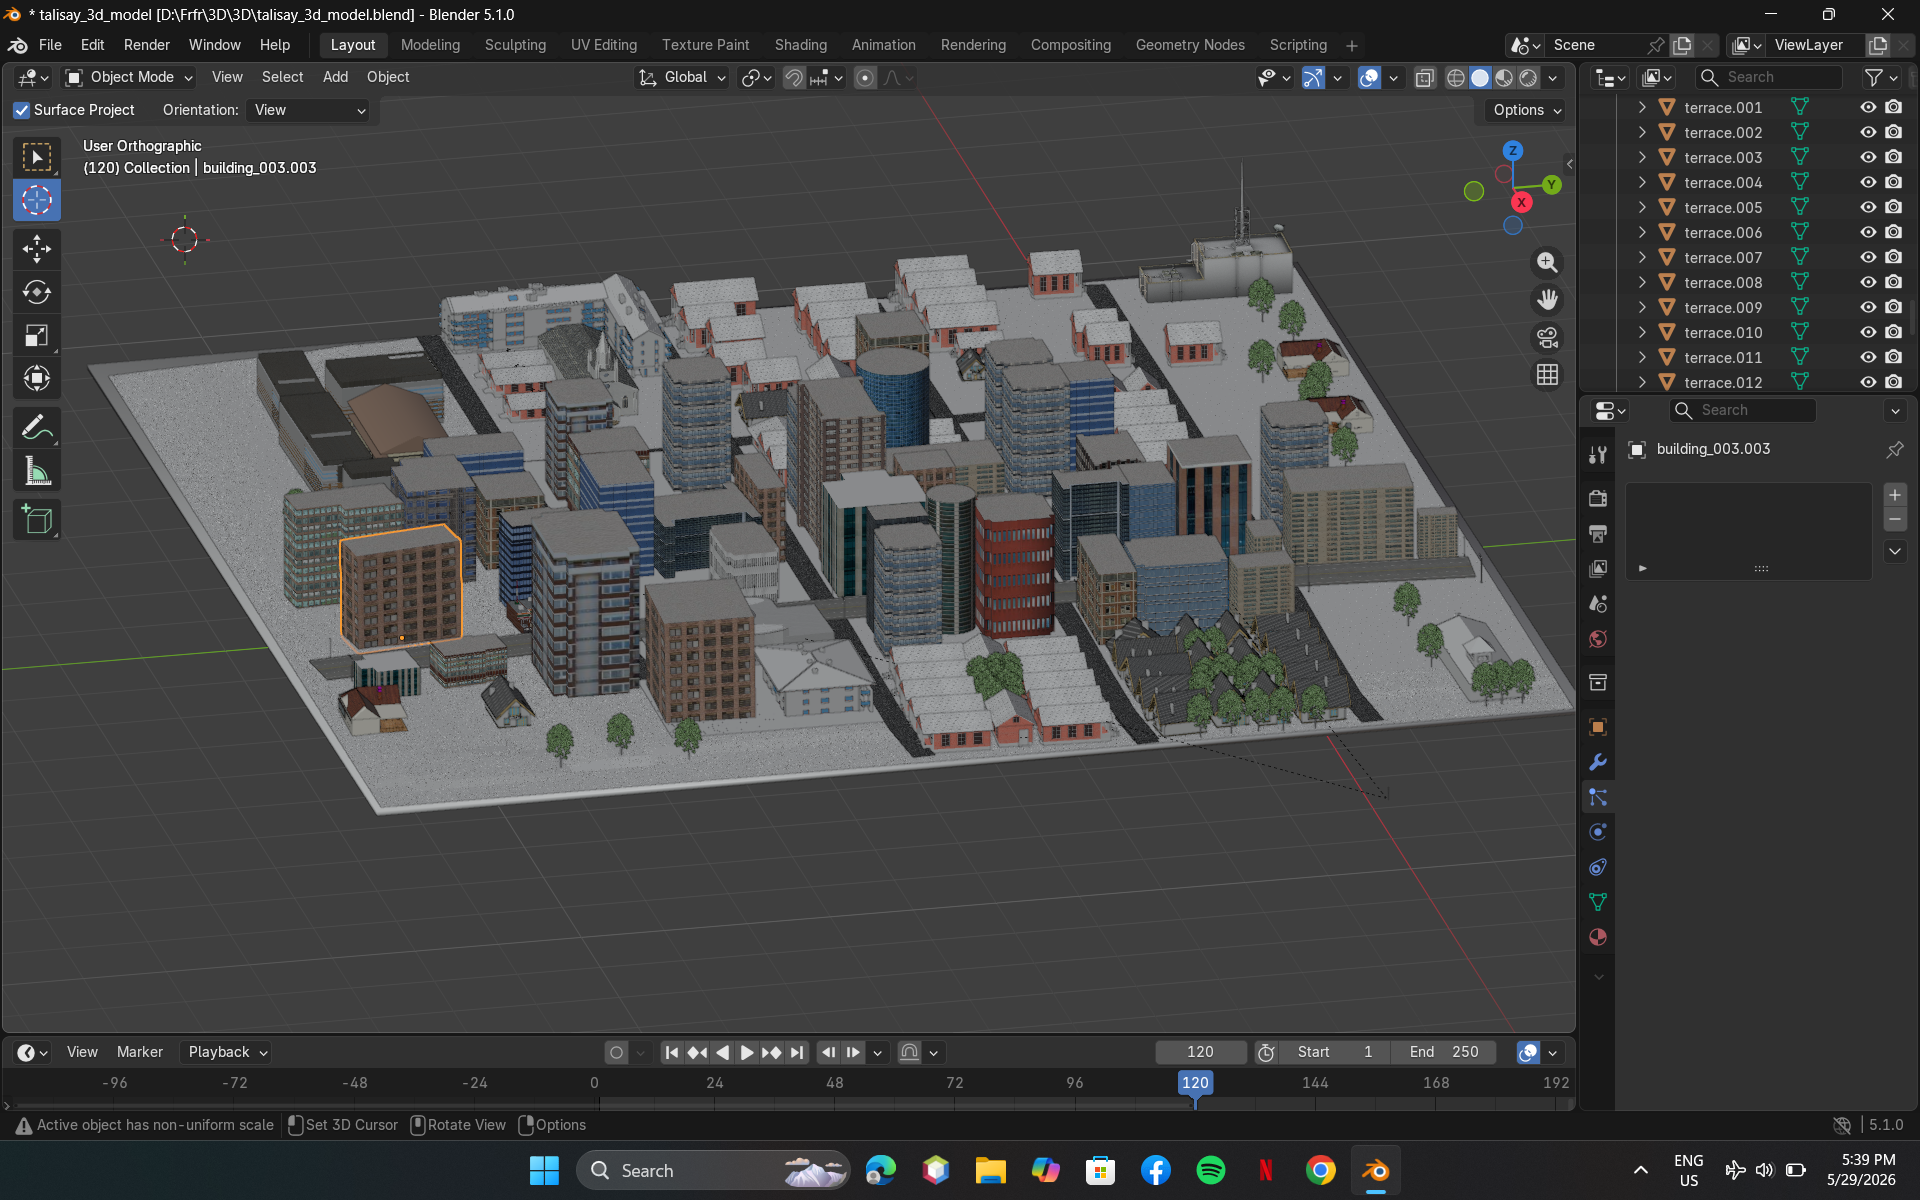
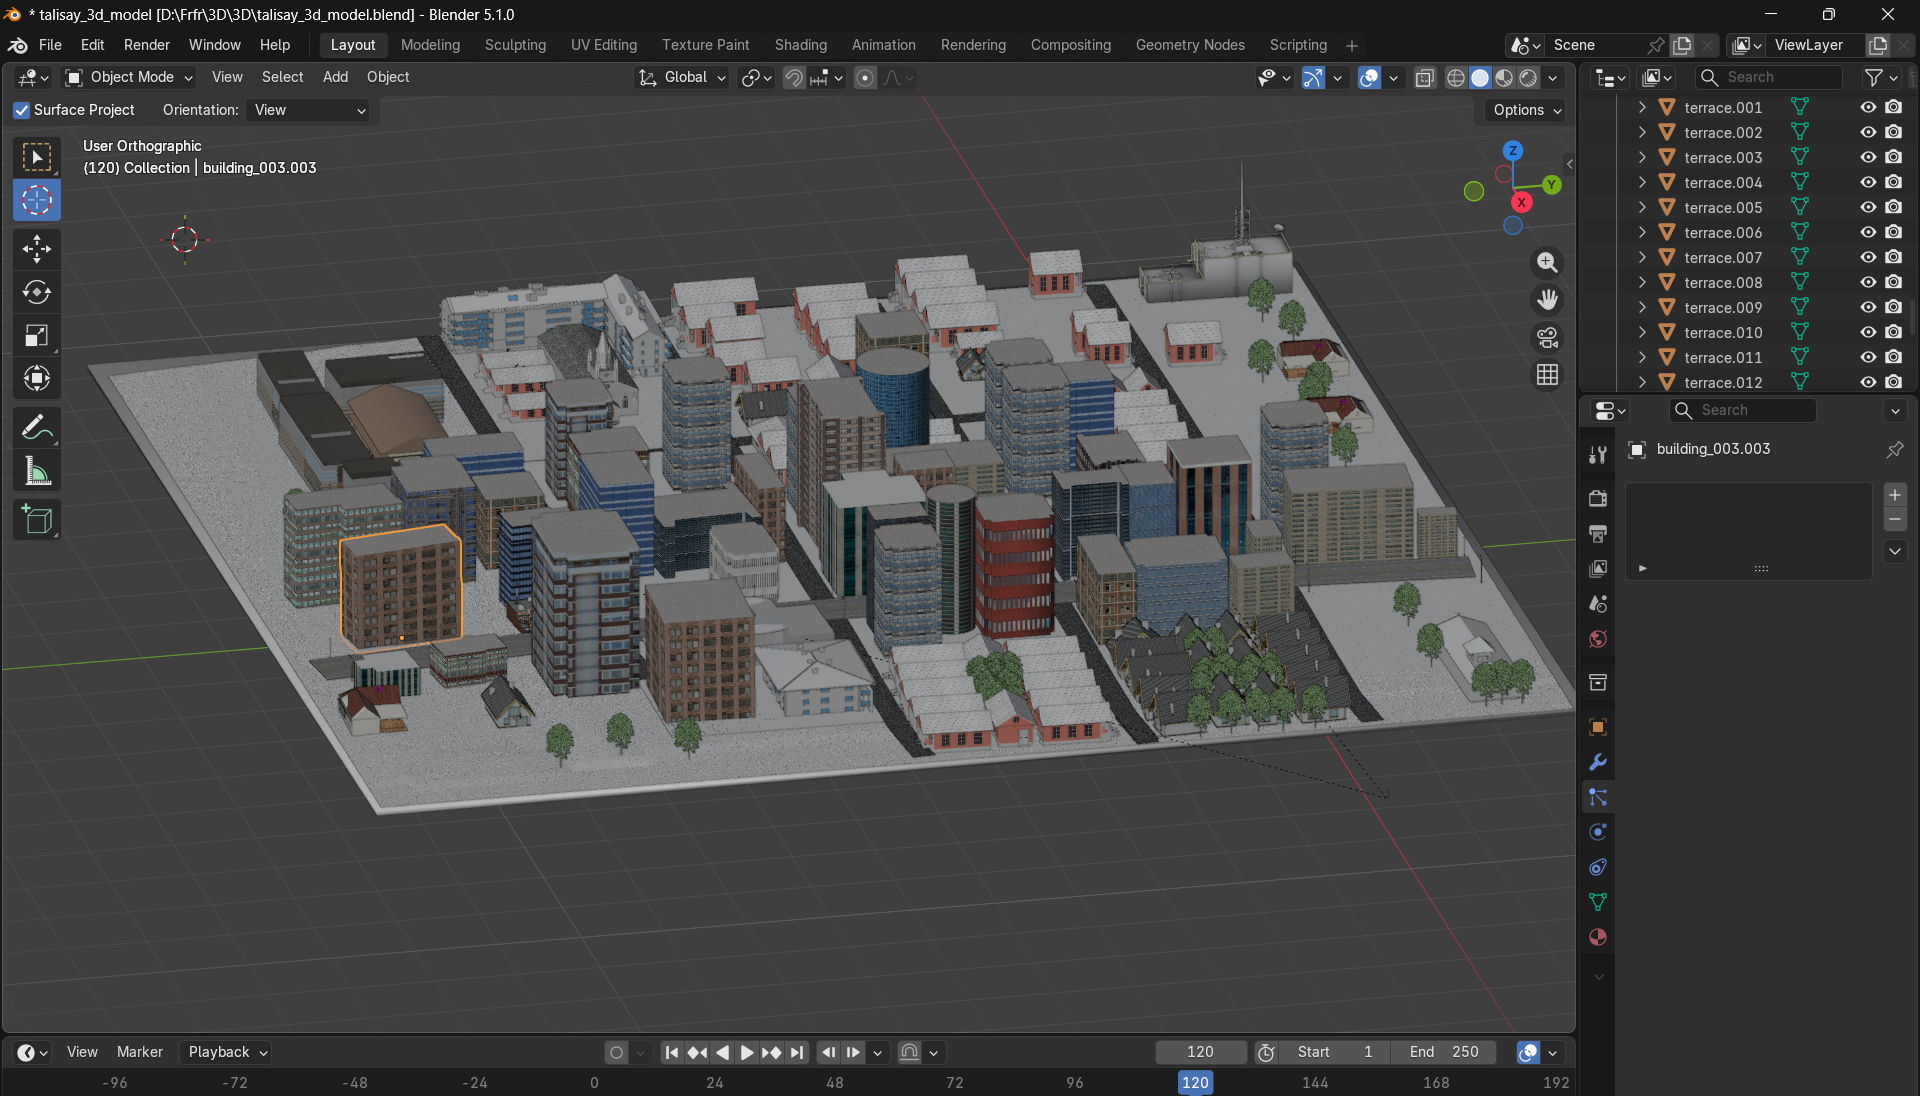
Add final exam images and update portfolio section in index.html

diff --git a/index.html b/index.html
@@ -402,6 +402,33 @@
 <!-- Final -->
 
             <div class="col-lg-4 col-md-6 portfolio-item isotope-item filter-final">
+              <img src="assets/img/portfolio/Final/FinalExam/5bba3102-8f10-435e-88c3-a7324c86c866.jpg" class="img-fluid" alt="">
+              <div class="portfolio-info">
+                <h4>Final Exam</h4>
+                <p>Picture 1</p>
+                <a href="assets/img/portfolio/Final/FinalExam/5bba3102-8f10-435e-88c3-a7324c86c866.jpg" title="CS Elective 101" data-gallery="portfolio-gallery-book" class="glightbox preview-link"><i class="bi bi-zoom-in"></i></a>
+                </div>
+            </div> <!-- End Portfolio Item -->
+
+            <div class="col-lg-4 col-md-6 portfolio-item isotope-item filter-final">
+              <img src="assets/img/portfolio/Final/FinalExam/323ad2f7-8932-499a-946f-68d780abb443.jpg" class="img-fluid" alt="">
+              <div class="portfolio-info">
+                <h4>Final Exam</h4>
+                <p>Picture 2</p>
+                <a href="assets/img/portfolio/Final/FinalExam/323ad2f7-8932-499a-946f-68d780abb443.jpg" title="CS Elective 101" data-gallery="portfolio-gallery-book" class="glightbox preview-link"><i class="bi bi-zoom-in"></i></a>
+                </div>
+            </div> <!-- End Portfolio Item -->
+
+            <div class="col-lg-4 col-md-6 portfolio-item isotope-item filter-final">
+              <img src="assets/img/portfolio/Final/FinalExam/5efd42fc-7a2c-4d86-87b8-e36909323f35.jpg" class="img-fluid" alt="">
+              <div class="portfolio-info">
+                <h4>Final Exam</h4>
+                <p>Picture 3</p>
+                <a href="assets/img/portfolio/Final/FinalExam/5efd42fc-7a2c-4d86-87b8-e36909323f35.jpg" title="CS Elective 101" data-gallery="portfolio-gallery-book" class="glightbox preview-link"><i class="bi bi-zoom-in"></i></a>
+                </div>
+            </div> <!-- End Portfolio Item -->
+
+            <div class="col-lg-4 col-md-6 portfolio-item isotope-item filter-final">
               <img src="assets/img/portfolio/Final/download.gif" class="img-fluid" alt="">
               <div class="portfolio-info">
                 <h4>3D Project - Talisay 3D Model</h4>
@@ -523,10 +550,9 @@
         <p>© <span>Copyright</span> <strong class="px-1 sitename">DevFolio</strong> <span>All Rights Reserved</span></p>
       </div>
       <div class="social-links d-flex justify-content-center">
-        <a href="https://x.com/JuStInE_1356"><i class="bi bi-twitter-x"></i></a>
+        <!-- <a href="https://x.com/"><i class="bi bi-twitter-x"></i></a> -->
         <a href="https://www.facebook.com/justine.galvez.731"><i class="bi bi-facebook"></i></a>
-        <a href="https://www.instagram.com/odi.justine"><i class="bi bi-instagram"></i></a>
-        <a href=""><i class="bi bi-linkedin"></i></a>
+        <!-- <a href=""><i class="bi bi-linkedin"></i></a> -->
       </div>
       <div class="credits">
         <!-- All the links in the footer should remain intact. -->
